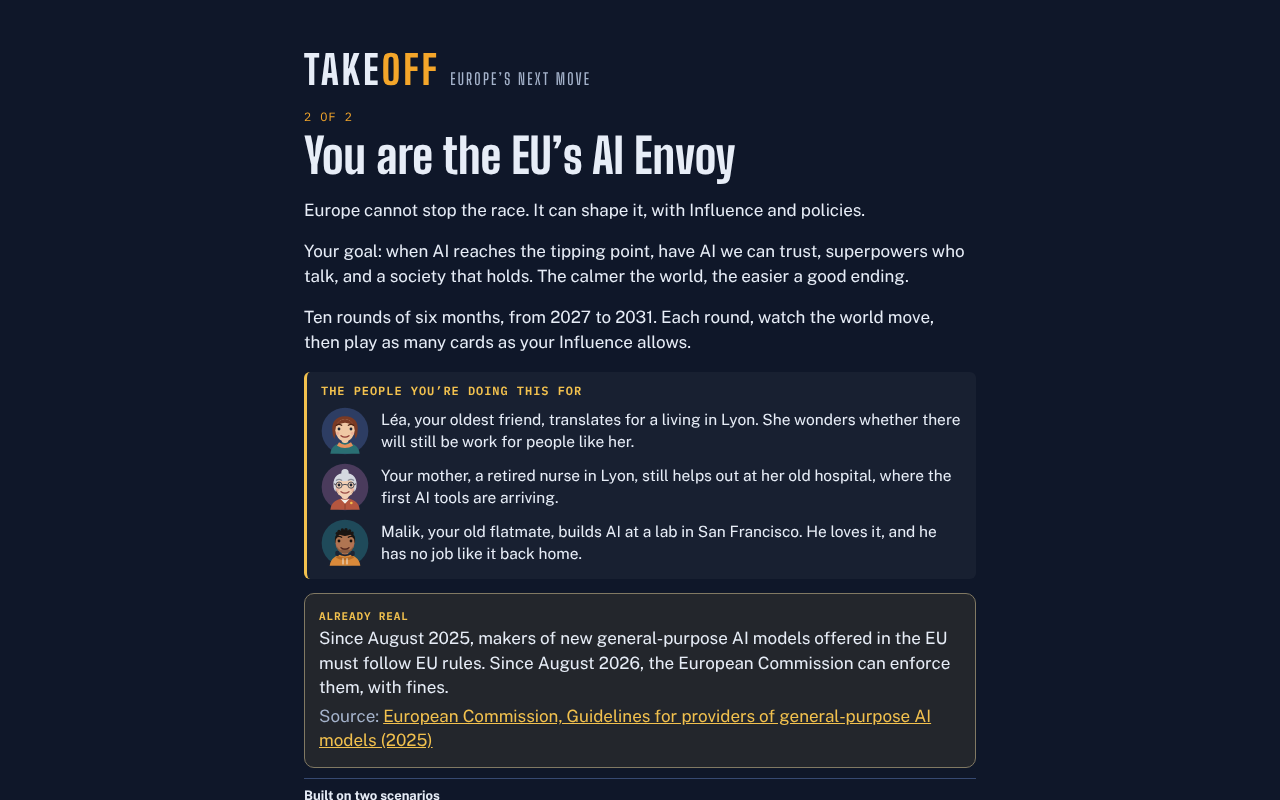
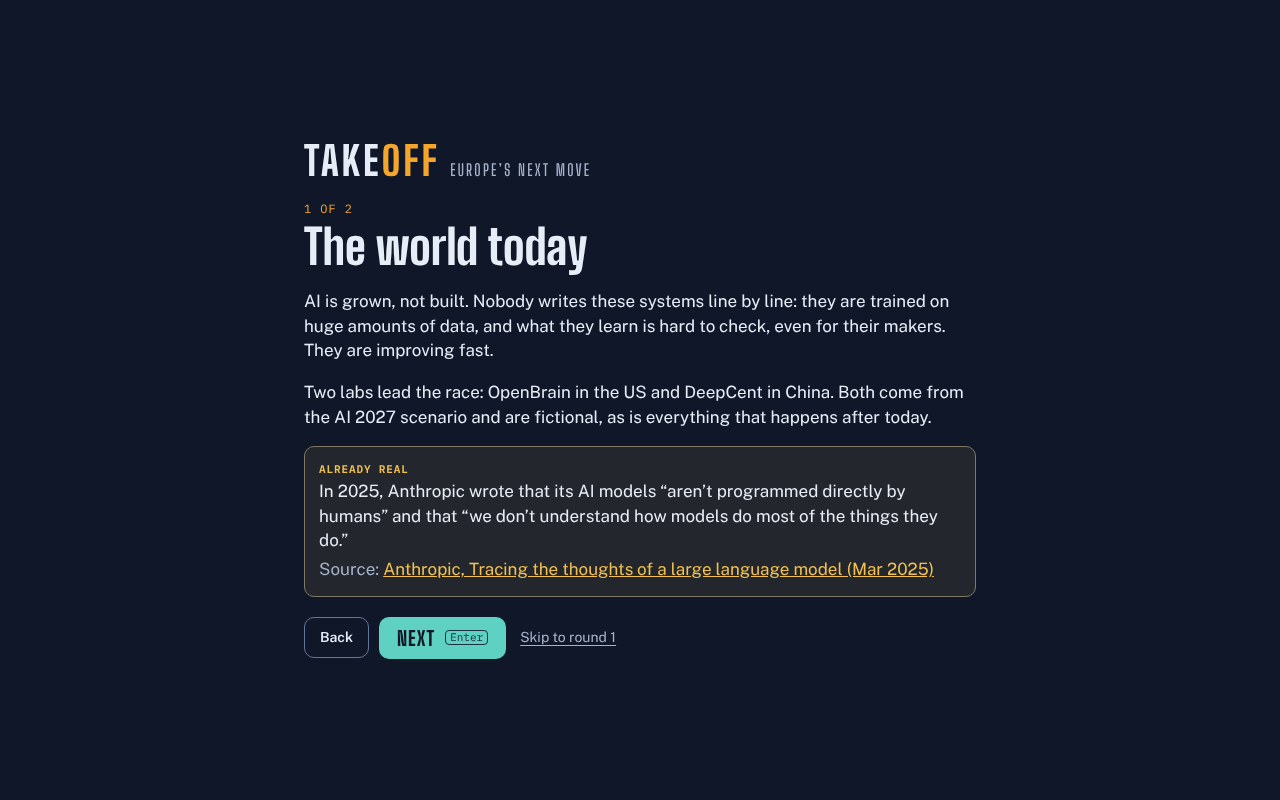
Landing: the goal in one sentence, the three stakes with their gauges, Play (about 15 min); the world and what you can do follow
Playtesters did not get the point of the game. The first intro screen now says what you do and why on one phone
screen; languages, Skip and the credit are secondary; the full Built on block stays on the last screen.

Claude-Session: https://claude.ai/code/session_01LSwpJS5xn5SGb1m53Db9uo

diff --git a/src/ui/screens/intro.ts b/src/ui/screens/intro.ts
@@ -1,8 +1,10 @@
-// The two intro screens: the world today, then you, your goal and the three friends back home (the people you are
-// doing this for). Skip goes straight to round 1. The first screen carries the languages, and on a first visit the
+// The intro: a landing that says in one sentence what you do and why, with the three stakes and Play (it fits one
+// phone screen); then the world today, and what you can do with the three friends back home (the people you are
+// doing this for). Skip goes straight to round 1. The landing carries the languages, and on a first visit the
 // offer to play in the browser's language (src/ui/lang.ts).
 
-import { BUILT_ON, INTRO } from '../../data/copy';
+import { BUILT_ON, GAUGE_LABEL, INTRO } from '../../data/copy';
+import type { GaugeKey } from '../../engine/types';
 import { t, tc, type AnyLang } from '../../i18n';
 import { esc, factBox, kbd, link, provLabel } from '../format';
 import { friendPortrait } from '../friends';
@@ -22,19 +24,36 @@ function builtOn(): string {
     .join(' ')}</p></section>`;
 }
 
+/** The landing's stakes, in order: each names the gauge that measures it (and takes its colour). */
+const STAKE_GAUGES: GaugeKey[] = ['confidence', 'cooperation', 'cohesion'];
+
 function screenHtml(i: number, focusLang: AnyLang | null): string {
   const sc = INTRO[i];
   const last = i === INTRO.length - 1;
-  const offer = i === 0 ? offeredLang() : null;
-  const row = i === 0 ? langRowHtml() : '';
-  return `<div class="intro-in">
+  const landing = i === 0;
+  const offer = landing ? offeredLang() : null;
+  const row = landing ? langRowHtml() : '';
+  const primary = landing
+    ? `<button type="button" class="btn-primary big" data-primary data-action="next">${esc(t('ui.intro.play', 'Play (about 15 min)'))} ${kbd('enter')}</button>`
+    : `<button type="button" class="btn-primary" data-primary data-action="next">${esc(last ? t('ui.intro.start', 'Start round 1') : t('ui.common.next', 'Next'))} ${kbd('enter')}</button>`;
+  return `<div class="intro-in${landing ? ' landing' : ''}">
         ${brand()}
         ${row}
         ${offer ? offerHtml(offer) : ''}
-        <div class="dateline">${esc(t('ui.intro.nOf', '{n} of {count}', { n: i + 1, count: INTRO.length }))}</div>
+        ${landing ? '' : `<div class="dateline">${esc(t('ui.intro.nOf', '{n} of {count}', { n: i, count: INTRO.length - 1 }))}</div>`}
         <h2 tabindex="-1" ${focusLang ? '' : 'data-autofocus'}>${esc(tc(`intro.${i}.title`, sc.title))}</h2>
-        ${sc.paragraphs.map((p, j) => `<p>${esc(tc(`intro.${i}.paragraphs.${j}`, p))}</p>`).join('')}
-        ${sc.stakes ? `<ul class="stakes">${sc.stakes.map((s, j) => `<li>${esc(tc(`intro.${i}.stakes.${j}`, s))}</li>`).join('')}</ul>` : ''}
+        ${sc.paragraphs.map((p, j) => `<p${landing ? ' class="lead"' : ''}>${esc(tc(`intro.${i}.paragraphs.${j}`, p))}</p>`).join('')}
+        ${
+          sc.stakes
+            ? `<ul class="stakes">${sc.stakes
+                .map((s, j) => {
+                  const g = STAKE_GAUGES[j];
+                  return `<li>${esc(tc(`intro.${i}.stakes.${j}`, s))}${g ? `<span class="stake-g">${esc(tc(`gauge.${g}.label`, GAUGE_LABEL[g]))}</span>` : ''}</li>`;
+                })
+                .join('')}</ul>`
+            : ''
+        }
+        ${sc.after ? `<p class="intro-after">${esc(tc(`intro.${i}.after`, sc.after))}</p>` : ''}
         ${
           sc.friends?.length
             ? `<section class="intro-friends" aria-labelledby="intro-friends-h"><h3 id="intro-friends-h">${esc(t('ui.intro.friends', 'The people you’re doing this for'))}</h3><ul>${sc.friends
@@ -46,9 +65,10 @@ function screenHtml(i: number, focusLang: AnyLang | null): string {
         ${last ? builtOn() : ''}
         <div class="row-btns">
           ${i > 0 ? `<button type="button" class="btn-quiet" data-action="back">${esc(t('ui.common.back', 'Back'))}</button>` : ''}
-          <button type="button" class="btn-primary" data-primary data-action="next">${esc(last ? t('ui.intro.start', 'Start round 1') : t('ui.common.next', 'Next'))} ${kbd('enter')}</button>
+          ${primary}
           ${last ? '' : `<button type="button" class="btn-link" data-action="skip" data-escape>${esc(t('ui.intro.skip', 'Skip to round 1'))}</button>`}
         </div>
+        ${sc.credit ? `<p class="intro-credit">${esc(tc(`intro.${i}.credit`, sc.credit))}</p>` : ''}
       </div>`;
 }
 
@@ -93,7 +113,7 @@ export async function showContinue(label: string): Promise<'continue' | 'new'> {
       `<div class="intro-in">
         ${brand()}
         <div class="dateline">${esc(t('ui.continue.dateline', 'Saved game'))}</div>
-        <h2>${esc(t('ui.continue.title', 'Welcome back, Envoy'))}</h2>
+        <h2>${esc(t('ui.continue.title', 'Welcome back'))}</h2>
         <p>${esc(t('ui.continue.text', 'Your game was saved where you left it. The current six months start again from their beginning, with every decision you made kept.'))}</p>
         <div class="row-btns">
           <button type="button" class="btn-primary" data-primary data-autofocus data-action="continue">${esc(t('ui.continue.button', 'Continue your game ({where})', { where: label }))} ${kbd('enter')}</button>

diff --git a/src/data/copy.ts b/src/data/copy.ts
@@ -58,31 +58,44 @@ export const STAGE_WORD = { 1: 'Watch', 2: 'Rising', 3: 'Imminent' } as const;
 export interface IntroScreen {
   title: string;
   paragraphs: string[];
+  /** The three stakes, one per gauge that decides the ending (AI safety, US–China cooperation, Social cohesion, in
+   *  that order: each takes its gauge's colour and name). */
   stakes?: string[];
+  /** A line after the stakes. */
+  after?: string;
+  /** A small line under the buttons (the landing's credit). */
+  credit?: string;
   /** The three friends back home, one line each with their portrait: the people you are doing this for. */
   friends?: { friend: FriendId; line: string }[];
   fact?: Fact;
 }
 
+/** The landing (the first screen, one phone screen: what you do and why, in one sentence, then Play), then two
+ *  screens for those who want the story before playing. Skip goes straight to round 1. */
 export const INTRO: IntroScreen[] = [
+  {
+    title: 'You speak for Europe on AI',
+    paragraphs: ['AI is about to start improving itself. You have five years to make sure that, when it does:'],
+    stakes: ['AI is safe', 'The US and China are talking', 'Europe holds together'],
+    after: 'Each round, answer requests and play policy cards. When AI starts improving itself, the game ends and shows the world you built.',
+    credit: 'Built on three published scenarios: AI 2027, CFG’s Possible Futures and Europe 2031.',
+  },
   {
     title: 'The world today',
     paragraphs: [
       'AI is grown, not built. Nobody writes these systems line by line: they are trained on huge amounts of data, and what they learn is hard to check, even for their makers. They are improving fast.',
       'Two labs lead the race: OpenBrain in the US and DeepCent in China. Both come from the AI 2027 scenario and are fictional, as is everything that happens after today.',
     ],
-    stakes: ['Will AI do what we intend?', 'Will the superpowers race, or talk?', 'Will our societies hold together?'],
     fact: {
       text: 'In 2025, Anthropic wrote that its AI models “aren’t programmed directly by humans” and that “we don’t understand how models do most of the things they do.”',
       source: SOURCES.anthropicInterp,
     },
   },
   {
-    title: 'You are the EU’s AI Envoy',
+    title: 'What you can do',
     paragraphs: [
       'Europe cannot stop the race. It can shape it, with Influence and policies.',
-      'Your goal: when AI reaches the tipping point, have AI we can trust, superpowers who talk, and a society that holds. The calmer the world, the easier a good ending.',
-      'Ten rounds of six months, from 2027 to 2031. Each round, watch the world move, then play as many cards as your Influence allows.',
+      'Ten rounds of six months, from 2027 to 2031. Each round, watch the news, answer requests, then play as many cards as your Influence allows. The calmer the world, the easier a good ending.',
     ],
     friends: [
       { friend: 'lea', line: 'Léa, your oldest friend, translates for a living in Lyon. She wonders whether there will still be work for people like her.' },

diff --git a/e2e/game.spec.ts b/e2e/game.spec.ts
@@ -218,20 +218,30 @@ test.describe('a full game', () => {
 });
 
 test.describe('key interactions', () => {
-  test('the build ships its Content-Security-Policy; the intro has two screens and Skip', async ({ page }) => {
+  test('the build ships its Content-Security-Policy; the intro is a landing, two screens and Skip', async ({ page }) => {
     const s = await boot(page, '?notutorial&seed=4');
     await expect(page.locator('meta[http-equiv="Content-Security-Policy"]')).toHaveCount(1);
     const intro = page.getByRole('dialog', { name: 'Introduction' });
+    // the landing: the goal in one sentence, the three stakes with their gauges, Play
     await expect(intro.getByRole('heading', { level: 2 })).toHaveText(INTRO[0].title);
-    await expect(intro.getByText('Already real')).toBeVisible();
+    await expect(intro.locator('.stakes li')).toHaveCount(3);
+    await expect(intro.locator('.stakes li').nth(0)).toContainText('AI safety');
+    await expect(intro.getByRole('button', { name: /^Play \(about 15 min\)/ })).toBeVisible();
     await page.keyboard.press('Enter');
     await advance(page, 300);
     await expect(intro.getByRole('heading', { level: 2 })).toHaveText(INTRO[1].title);
+    await expect(intro.getByText('Already real')).toBeVisible();
+    await page.keyboard.press('Enter');
+    await advance(page, 300);
+    await expect(intro.getByRole('heading', { level: 2 })).toHaveText(INTRO[2].title);
     await expect(intro.getByRole('heading', { level: 3, name: 'The people you’re doing this for' })).toBeVisible();
     await expect(intro.locator('.intro-friends li')).toHaveCount(3);
     await expect(intro.locator('.intro-friends li .friend-face')).toHaveCount(3);
     await intro.getByRole('button', { name: 'Back' }).click();
     await advance(page, 300);
+    await intro.getByRole('button', { name: 'Back' }).click();
+    await advance(page, 300);
+    await expect(intro.getByRole('heading', { level: 2 })).toHaveText(INTRO[0].title);
     await intro.getByRole('button', { name: 'Skip to round 1' }).click();
     await advance(page, 600);
     await expect(intro).toHaveCount(0);

diff --git a/src/ui/styles.css b/src/ui/styles.css
@@ -457,6 +457,11 @@ body.jolt .mapwrap { animation: jolt .5s ease; }
 .stakes li::before { content: ''; position: absolute; left: 0; top: 2px; bottom: 2px; width: 4px; border-radius: 2px; background: var(--align); }
 .stakes li:nth-child(2)::before { background: linear-gradient(var(--align), var(--cap), var(--rival)); }
 .stakes li:nth-child(3)::before { background: var(--concern); }
+/* the landing: one sentence, the three stakes (each with its gauge's name under it), Play */
+.intro .landing .lead { font-size: 20px; line-height: 1.45; margin: 10px 0 4px; }
+.stake-g { display: block; font-family: var(--f-data); font-size: 11.5px; font-weight: 500; letter-spacing: .08em; text-transform: uppercase; color: var(--mute); margin-top: 1px; }
+.intro .intro-after { color: var(--mute); font-size: 16px; }
+.intro .intro-credit { color: var(--mute); font-size: 13px; margin: 14px 0 0; }
 .built-on { font-size: 13px; color: var(--mute); border-top: 1px solid var(--rule); margin-top: 10px; padding-top: 8px; }
 .built-on h3 { font-size: 13px; margin: 0 0 4px; color: var(--ink); }
 .built-on ul { margin: 0 0 4px; padding-left: 18px; }
@@ -960,6 +965,9 @@ body.ended { overflow: auto; }
   .intro-friends .friend-face { width: 40px; height: 40px; }
   .intro .intro-friends p { font-size: 14.5px; }
   .stakes li { font-size: 20px; }
+  .intro .landing .lead { font-size: 17.5px; }
+  .intro .intro-after { font-size: 15px; }
+  .landing .stakes { margin: 10px 0; gap: 6px; }
   .overlay { padding: 12px 8px; }
   .req-answers { grid-template-columns: 1fr; }
   .req-card { padding: 10px 12px 12px; }

diff --git a/tests/content.test.ts b/tests/content.test.ts
@@ -52,8 +52,8 @@ describe('real facts', () => {
     for (const [where, f] of facts) expect(f.text, where).not.toMatch(/OpenBrain|DeepCent/);
   });
   it('the intro says the labs come from AI 2027 and the future is fiction', () => {
-    expect(INTRO[0].paragraphs.join(' ')).toMatch(/AI 2027 scenario and are fictional/);
-    expect(INTRO[0].paragraphs.join(' ')).not.toMatch(/invented for this game/);
+    expect(INTRO[1].paragraphs.join(' ')).toMatch(/AI 2027 scenario and are fictional/);
+    expect(INTRO[1].paragraphs.join(' ')).not.toMatch(/invented for this game/);
   });
   it('the Built on block is short (it fits a phone), links the three scenarios and names the five tags', () => {
     const all = [BUILT_ON.title, ...BUILT_ON.scenarios.flatMap((x) => [x.name, x.by, x.what]), BUILT_ON.calendar.text, BUILT_ON.tagsText, ...BUILT_ON.tags].join(' ');
@@ -62,8 +62,10 @@ describe('real facts', () => {
     for (const x of [...BUILT_ON.scenarios.map((s) => s.source), BUILT_ON.calendar.source]) expect(Object.values(SOURCES)).toContain(x);
     expect(BUILT_ON.tags).toEqual(['Real', 'From AI 2027', 'From CFG', 'From Europe 2031', 'Invented']);
   });
-  it('the intro has two screens with one or two facts', () => {
-    expect(INTRO).toHaveLength(2);
+  it('the intro is a landing (the goal, three stakes) and two screens with facts', () => {
+    expect(INTRO).toHaveLength(3);
+    expect(INTRO[0].stakes).toHaveLength(3);
+    expect(INTRO[0].fact).toBeUndefined();
     expect(INTRO.filter((i) => i.fact).length).toBeGreaterThanOrEqual(1);
   });
 });

diff --git a/src/i18n/content.ts b/src/i18n/content.ts
@@ -80,6 +80,8 @@ export function collectContent(): Out {
     out[`intro.${i}.title`] = sc.title;
     sc.paragraphs.forEach((p, j) => (out[`intro.${i}.paragraphs.${j}`] = p));
     sc.stakes?.forEach((p, j) => (out[`intro.${i}.stakes.${j}`] = p));
+    if (sc.after) out[`intro.${i}.after`] = sc.after;
+    if (sc.credit) out[`intro.${i}.credit`] = sc.credit;
     sc.friends?.forEach((f) => (out[`intro.${i}.friends.${f.friend}`] = f.line));
     if (sc.fact) out[`intro.${i}.fact`] = sc.fact.text;
   });

diff --git a/docs/V4_SPEC.md b/docs/V4_SPEC.md
@@ -98,7 +98,7 @@ A dot-matrix world centred on the US–Europe–China band (Europe's colour cove
 
 ## Friends back home (26 Oct)
 
-Léa used to be the game's human heart; she had become one feed item among others. Team decision of 26 October: **three friends back home**, each the human face of one part of the world, introduced on the intro's second screen with their portraits ("the people you're doing this for", one line each):
+Léa used to be the game's human heart; she had become one feed item among others. Team decision of 26 October: **three friends back home**, each the human face of one part of the world, introduced on the intro's last screen with their portraits ("the people you're doing this for", one line each):
 
 - **Léa**, your old friend, a translator in Lyon: her job, the fear of being replaced → **Social cohesion**. Her letters are v3's, kept.
 - **Your mother**, a retired nurse in Lyon who still helps at her old hospital: AI arriving in the wards, trust, then a near miss or an inspection → **AI safety as lived**.
@@ -128,6 +128,12 @@ The game rests on three scenarios: **AI 2027** (the race and its milestones), **
 - **Washington rations Europe's AI** (Breaking news, a choice): a US rule puts most of Europe in a capped tier of access to American AI. *Take the cloud deal* (US cloud firms build in Europe under European law: US–China cooperation down a little, AI capabilities up a little) or *Build our own* (years away; firms ration AI meanwhile: Social cohesion down). Only for a Dependent Europe, outside a pause, after AI 2027's national-security milestone; once a game.
 - **The squeeze in the news**: US models and Chinese robots, a US AI giant buying a German carmaker's plants for robots, a million Chinese humanoids a year, bond spreads and the euro; a Commission official's voice; a car worker in Saxony and a graduate in Lille; a march in Rome against cuts (social event).
 - **Re-based**: the coalition of middle powers, the ASML lever, flexicurity and OpenBrain's data-centre request now rest on Europe 2031's recommendations and chapters.
+
+## Plain words for newcomers (27 Oct)
+
+Playtesters without an AI-governance background said "we don't get the point", "too jargony", "way too complex". The owner validated a plain-language pass:
+
+- **Landing.** The first screen states the goal in one sentence and fits one phone screen (390×844): "You speak for Europe on AI. AI is about to start improving itself. You have five years to make sure that, when it does:" then the three stakes, each with its gauge's colour bar and name (AI is safe · AI safety; The US and China are talking · US–China cooperation; Europe holds together · Social cohesion), one line on what you do and when it ends, and a big **Play (about 15 min)**. Languages, Skip and a one-line credit (the three scenarios) are secondary; the full *Built on* block stays on the intro's last screen. Play leads to two short screens (the world today; what you can do, with the three friends), which Skip jumps over.
 
 ## Tutorial
 
